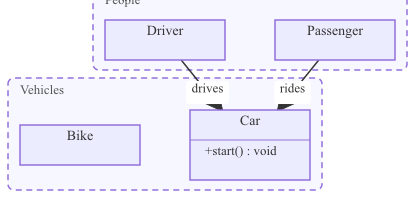
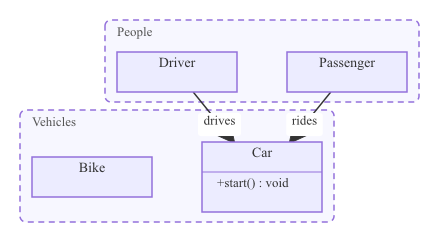
class: fix lollipop line/circle overlap and namespace viewBox clip (#147)
User-reported visual bugs after the namespace + lollipop PRs landed.

Namespace clip:
- The People namespace in examples/class/namespaces.mmd lives at
  the top row, where its label band reserves ~32px above the
  topmost class. Previously the SVG viewBox started at (0,0) so
  the label and the upper portion of the namespace rect rendered
  outside the visible area.
- Refactor renderNamespaces into layoutNamespaces (computes
  rects + extents) and renderNamespaces (emits SVG). Render() now
  expands the viewBox min-corner to the most-negative namespace
  origin so the label band is always visible. The background
  rect follows the same min-corner so the canvas covers all
  rendered content.

Lollipop line clip:
- The connector line previously ran class-edge to class-edge,
  passing straight through the lollipop circle (the white fill
  occluded the central segment, but the visual was unclear and
  the geometry was wrong).
- Add a `lollipopLineInset` (19 = circle CX 14 + R 5) and pull
  the line endpoint back along the line direction at any end
  capped by a lollipop. The inline glyph still anchors at the
  original class-edge point, so the circle stays visually
  attached to the providing class while the line terminates at
  the ball's far edge.
- New `pullbackToward` helper does the unit-vector arithmetic.

Tests:
- TestRenderNamespaceExpandsViewBoxNegative pins the negative
  viewBox origin when namespaces sit at the top edge.
[…]

diff --git a/pkg/renderer/class/renderer.go b/pkg/renderer/class/renderer.go
@@ -3,6 +3,7 @@ package class
 import (
 	"encoding/xml"
 	"fmt"
+	"math"
 	"sort"
 	"strings"
 
@@ -12,6 +13,11 @@ import (
 	"github.com/julianshen/mmgo/pkg/renderer/svgutil"
 	"github.com/julianshen/mmgo/pkg/textmeasure"
 )
+
+// lollipopLineInset is how far the line endpoint pulls back from the
+// class edge when a lollipop glyph caps that end. Equals the far-edge
+// distance of the inlined circle from its anchor (CX=14, R=5 → 19).
+const lollipopLineInset = 19.0
 
 const (
 	defaultFontSize    = 14.0
@@ -66,13 +72,40 @@ func Render(d *diagram.ClassDiagram, opts *Options) ([]byte, error) {
 	contentH := svgutil.Sanitize(l.Height) + 2*pad
 
 	notes := layoutNotes(d, contentW, pad, fontSize, ruler)
-	viewW, viewH := contentW, contentH
+	namespaces := layoutNamespaces(d, l, pad, fontSize, ruler)
+
+	// Start with a viewBox sized for the class layout, then expand
+	// to include note + namespace extents. Namespaces in particular
+	// can sit at negative (x,y) when their label band reserves space
+	// above the topmost class — the viewBox's min-corner must follow
+	// or the label gets clipped.
+	viewMinX, viewMinY := 0.0, 0.0
+	viewMaxX, viewMaxY := contentW, contentH
 	if len(notes) > 0 {
-		viewW = notes[len(notes)-1].x + notes[len(notes)-1].w + pad
-		if last := notes[len(notes)-1].y + notes[len(notes)-1].h + pad; last > viewH {
-			viewH = last
+		last := notes[len(notes)-1]
+		if right := last.x + last.w + pad; right > viewMaxX {
+			viewMaxX = right
+		}
+		if bottom := last.y + last.h + pad; bottom > viewMaxY {
+			viewMaxY = bottom
 		}
 	}
+	for _, p := range namespaces {
+		if p.x-pad < viewMinX {
+			viewMinX = p.x - pad
+		}
+		if p.y-pad < viewMinY {
+			viewMinY = p.y - pad
+		}
+		if right := p.x + p.w + pad; right > viewMaxX {
+			viewMaxX = right
+		}
+		if bottom := p.y + p.h + pad; bottom > viewMaxY {
+			viewMaxY = bottom
+		}
+	}
+	viewW := viewMaxX - viewMinX
+	viewH := viewMaxY - viewMinY
 
 	var children []any
 	// Accessibility metadata comes first per SVG 1.1 §5.4: screen
@@ -92,20 +125,21 @@ func Render(d *diagram.ClassDiagram, opts *Options) ([]byte, error) {
 		children = append(children, defs)
 	}
 	children = append(children, &rect{
-		X: 0, Y: 0, Width: svgFloat(viewW), Height: svgFloat(viewH),
+		X: svgFloat(viewMinX), Y: svgFloat(viewMinY),
+		Width: svgFloat(viewW), Height: svgFloat(viewH),
 		Style: fmt.Sprintf("fill:%s;stroke:none", th.Background),
 	})
 
 	// Namespace rects render *behind* classes/edges so the borders
 	// frame the group without occluding member content.
-	children = append(children, renderNamespaces(d, l, pad, fontSize, ruler, th)...)
+	children = append(children, renderNamespaces(namespaces, fontSize, th)...)
 	children = append(children, renderEdges(d, l, pad, fontSize, th, ruler)...)
 	children = append(children, renderClasses(d, l, pad, fontSize, th)...)
 	children = append(children, renderNotes(notes, l, pad, fontSize, th)...)
 
 	svg := svgDoc{
 		XMLNS:    "http://www.w3.org/2000/svg",
-		ViewBox:  fmt.Sprintf("0 0 %.2f %.2f", viewW, viewH),
+		ViewBox:  fmt.Sprintf("%.2f %.2f %.2f %.2f", viewMinX, viewMinY, viewW, viewH),
 		Children: children,
 	}
 	svgBytes, err := xml.Marshal(svg)
@@ -353,24 +387,30 @@ func appendMemberSection(elems []any, members []diagram.ClassMember, x, w, secti
 	return elems, sectionY + classPadY + float64(len(members))*memberRowH
 }
 
-// renderNamespaces draws a labelled bounding rectangle around each
-// namespace's classes. Layout doesn't cluster namespace members,
-// so the rect is a post-pass enclosure of whatever positions dagre
-// chose. For diagrams where members are scattered the rect stretches
-// wide; this is a known limitation of decoration-only namespaces.
-func renderNamespaces(d *diagram.ClassDiagram, l *layout.Result, pad, fontSize float64, ruler *textmeasure.Ruler, th Theme) []any {
+// placedNamespace is a sized + positioned namespace rectangle.
+type placedNamespace struct {
+	name    string
+	x, y    float64
+	w, h    float64
+}
+
+const (
+	nsPadX    = 12.0
+	nsPadY    = 10.0
+	nsLabelH  = 22.0
+	nsCornerR = 6.0
+)
+
+// layoutNamespaces sizes each namespace's bounding rect from its
+// member classes' layout positions. Returned rects can have negative
+// x/y when a namespace sits at the top-left of the diagram (the
+// label band reserves space *above* the topmost member). Render
+// callers must include these extents when sizing the viewBox.
+func layoutNamespaces(d *diagram.ClassDiagram, l *layout.Result, pad, fontSize float64, ruler *textmeasure.Ruler) []placedNamespace {
 	if len(d.Namespaces) == 0 {
 		return nil
 	}
-	const (
-		nsPadX     = 12.0
-		nsPadY     = 10.0
-		nsLabelH   = 22.0
-		nsCornerR  = 6.0
-	)
-	style := fmt.Sprintf("fill:%s;stroke:%s;stroke-width:1.5;stroke-dasharray:4,3", th.NamespaceFill, th.NamespaceStroke)
-	textStyle := fmt.Sprintf("fill:%s;font-size:%.0fpx;font-weight:bold", th.NamespaceText, fontSize-1)
-	var elems []any
+	out := make([]placedNamespace, 0, len(d.Namespaces))
 	for _, ns := range d.Namespaces {
 		bb := svgutil.NewInfiniteBBox()
 		for _, id := range ns.ClassIDs {
@@ -398,18 +438,34 @@ func renderNamespaces(d *diagram.ClassDiagram, l *layout.Result, pad, fontSize f
 			x -= (minLabel - w) / 2
 			w = minLabel
 		}
+		out = append(out, placedNamespace{name: ns.Name, x: x, y: y, w: w, h: h})
+	}
+	return out
+}
+
+// renderNamespaces emits the rect + label for each pre-placed
+// namespace. Geometry is decided in layoutNamespaces; this layer is
+// styling-only.
+func renderNamespaces(namespaces []placedNamespace, fontSize float64, th Theme) []any {
+	if len(namespaces) == 0 {
+		return nil
+	}
+	style := fmt.Sprintf("fill:%s;stroke:%s;stroke-width:1.5;stroke-dasharray:4,3", th.NamespaceFill, th.NamespaceStroke)
+	textStyle := fmt.Sprintf("fill:%s;font-size:%.0fpx;font-weight:bold", th.NamespaceText, fontSize-1)
+	elems := make([]any, 0, 2*len(namespaces))
+	for _, p := range namespaces {
 		elems = append(elems,
 			&rect{
-				X: svgFloat(x), Y: svgFloat(y),
-				Width: svgFloat(w), Height: svgFloat(h),
+				X: svgFloat(p.x), Y: svgFloat(p.y),
+				Width: svgFloat(p.w), Height: svgFloat(p.h),
 				RX: svgFloat(nsCornerR), RY: svgFloat(nsCornerR),
 				Style: style,
 			},
 			&text{
-				X: svgFloat(x + nsPadX), Y: svgFloat(y + nsLabelH/2 + nsPadY/2),
+				X: svgFloat(p.x + nsPadX), Y: svgFloat(p.y + nsLabelH/2 + nsPadY/2),
 				Anchor: "start", Dominant: "central",
 				Style:   textStyle,
-				Content: ns.Name,
+				Content: p.name,
 			},
 		)
 	}
@@ -562,6 +618,20 @@ func renderEdges(d *diagram.ClassDiagram, l *layout.Result, pad, fontSize float6
 		// marker-end can't address the start.
 		atFrom, atTo := edgeGlyphs(rel)
 		canUseEndMarker := rel.Direction == diagram.RelationForward
+		// Lollipop glyphs sit 14–19px along the line from their
+		// anchor (a circle, not a tip-anchored shape). If we let the
+		// line run all the way to the anchor, it visually pierces
+		// the circle. Pull the line endpoint back so it terminates
+		// at the circle's far edge; the inline glyph still anchors
+		// at the original class-edge point.
+		glyphAnchorFrom := pts[0]
+		glyphAnchorTo := pts[len(pts)-1]
+		if atFrom == glyphLollipop {
+			pts[0] = pullbackToward(pts[0], srcDir, lollipopLineInset)
+		}
+		if atTo == glyphLollipop {
+			pts[len(pts)-1] = pullbackToward(pts[len(pts)-1], dstDir, lollipopLineInset)
+		}
 		endRef := ""
 		if canUseEndMarker && atTo != glyphNoneKind {
 			if m, ok := endMarkerForGlyph(atTo); ok {
@@ -584,15 +654,16 @@ func renderEdges(d *diagram.ClassDiagram, l *layout.Result, pad, fontSize float6
 		}
 		// Inline-place the start glyph (canonical forward path) and any
 		// glyph the SVG marker-end couldn't carry (reverse / bidirectional
-		// or non-end-marker glyphs at the To end).
+		// or non-end-marker glyphs at the To end). Anchor at the
+		// pre-pullback class-edge point so the glyph stays attached
+		// to the class regardless of any line-inset adjustment.
 		if atFrom != glyphNoneKind {
-			if g := inlineGlyphAt(atFrom, pts[0], srcDir); g != nil {
+			if g := inlineGlyphAt(atFrom, glyphAnchorFrom, srcDir); g != nil {
 				elems = append(elems, g)
 			}
 		}
 		if atTo != glyphNoneKind && endRef == "" {
-			last := len(pts) - 1
-			if g := inlineGlyphAt(atTo, pts[last], dstDir); g != nil {
+			if g := inlineGlyphAt(atTo, glyphAnchorTo, dstDir); g != nil {
 				elems = append(elems, g)
 			}
 		}
@@ -691,6 +762,19 @@ func glyphForRelation(rt diagram.RelationType) (g glyphKind, atTo bool) {
 		return glyphLollipop, false
 	}
 	return glyphNoneKind, false
+}
+
+// pullbackToward moves p along the unit vector from p toward dirRef
+// by `dist` units. Used to terminate a line at the outer edge of an
+// inline glyph (e.g., a lollipop circle) instead of letting the line
+// pierce through the glyph to the class-edge anchor.
+func pullbackToward(p, dirRef layout.Point, dist float64) layout.Point {
+	dx, dy := dirRef.X-p.X, dirRef.Y-p.Y
+	n := math.Hypot(dx, dy)
+	if n < 1e-9 {
+		return p
+	}
+	return layout.Point{X: p.X + dx/n*dist, Y: p.Y + dy/n*dist}
 }
 
 func inlineGlyphAt(g glyphKind, anchor, dirRef layout.Point) *group {

diff --git a/pkg/renderer/class/renderer_test.go b/pkg/renderer/class/renderer_test.go
@@ -783,6 +783,80 @@ func TestRenderNamespace(t *testing.T) {
 	}
 }
 
+// When a namespace's bounding rect extends above the class-layout
+// origin (e.g., a top-row namespace whose label band reserves space
+// above the topmost class), the SVG viewBox must shift its min-y
+// to a negative value so the namespace label isn't clipped.
+func TestRenderNamespaceExpandsViewBoxNegative(t *testing.T) {
+	d := &diagram.ClassDiagram{
+		Direction: diagram.DirectionLR,
+		Classes: []diagram.ClassDef{
+			{ID: "A", Label: "A"},
+			{ID: "B", Label: "B"},
+		},
+		Namespaces: []diagram.ClassNamespace{
+			{Name: "Top", ClassIDs: []string{"A", "B"}},
+		},
+	}
+	out, err := Render(d, nil)
+	if err != nil {
+		t.Fatalf("Render: %v", err)
+	}
+	raw := string(out)
+	// viewBox attr is `<minX> <minY> <w> <h>`; minY must be < 0
+	// when the namespace extends above the class layout.
+	w, h := parseViewBoxWH(t, out)
+	if w <= 0 || h <= 0 {
+		t.Errorf("viewBox dimensions invalid: %fx%f", w, h)
+	}
+	// Look for a negative number in the viewBox attr — the label
+	// band of a top-edge namespace forces the viewBox up.
+	if !strings.Contains(raw, `viewBox="-`) && !strings.Contains(raw, " -") {
+		t.Errorf("expected negative viewBox origin for top-edge namespace, got viewBox in:\n%s", raw[:200])
+	}
+}
+
+// Lollipop edges: the line should terminate at the circle's far
+// edge, not pass through to the class boundary. A 2-point line's
+// length should be (gap_between_classes - lollipopLineInset).
+func TestRenderLollipopLineStopsAtCircle(t *testing.T) {
+	d := &diagram.ClassDiagram{
+		Classes: []diagram.ClassDef{
+			{ID: "Provider", Label: "Provider"},
+			{ID: "Consumer", Label: "Consumer"},
+		},
+		Relations: []diagram.ClassRelation{
+			{From: "Provider", To: "Consumer", RelationType: diagram.RelationTypeLollipop, Direction: diagram.RelationForward},
+		},
+	}
+	out, err := Render(d, nil)
+	if err != nil {
+		t.Fatalf("Render: %v", err)
+	}
+	raw := string(out)
+	// Pull the connector <line> element and check its y1 vs the
+	// class layout. The Provider class sits at top, Consumer at
+	// bottom in TB layout; the connector starts BELOW the
+	// Provider's bottom edge by lollipopLineInset (so the line
+	// doesn't pierce the lollipop circle drawn at the anchor).
+	pattern := `<line x1="80.00" y1="`
+	idx := strings.Index(raw, pattern)
+	if idx < 0 {
+		t.Fatalf("expected vertical connector at x=80; got:\n%s", raw)
+	}
+	tail := raw[idx+len(pattern):]
+	end := strings.IndexByte(tail, '"')
+	var y1 float64
+	if _, err := fmt.Sscanf(tail[:end], "%f", &y1); err != nil {
+		t.Fatalf("y1 parse: %v", err)
+	}
+	// Provider box bottom is at y=60 by default; with the inset
+	// pull-back, the line should start at y >= 60 + 19 = 79.
+	if y1 < 79 {
+		t.Errorf("line y1 = %f, want >= 79 (Provider bottom + lollipopLineInset)", y1)
+	}
+}
+
 // A namespace with no resolved members (e.g. all class IDs missing
 // from the layout) should silently emit nothing rather than draw a
 // degenerate Inf-bounded rectangle.
